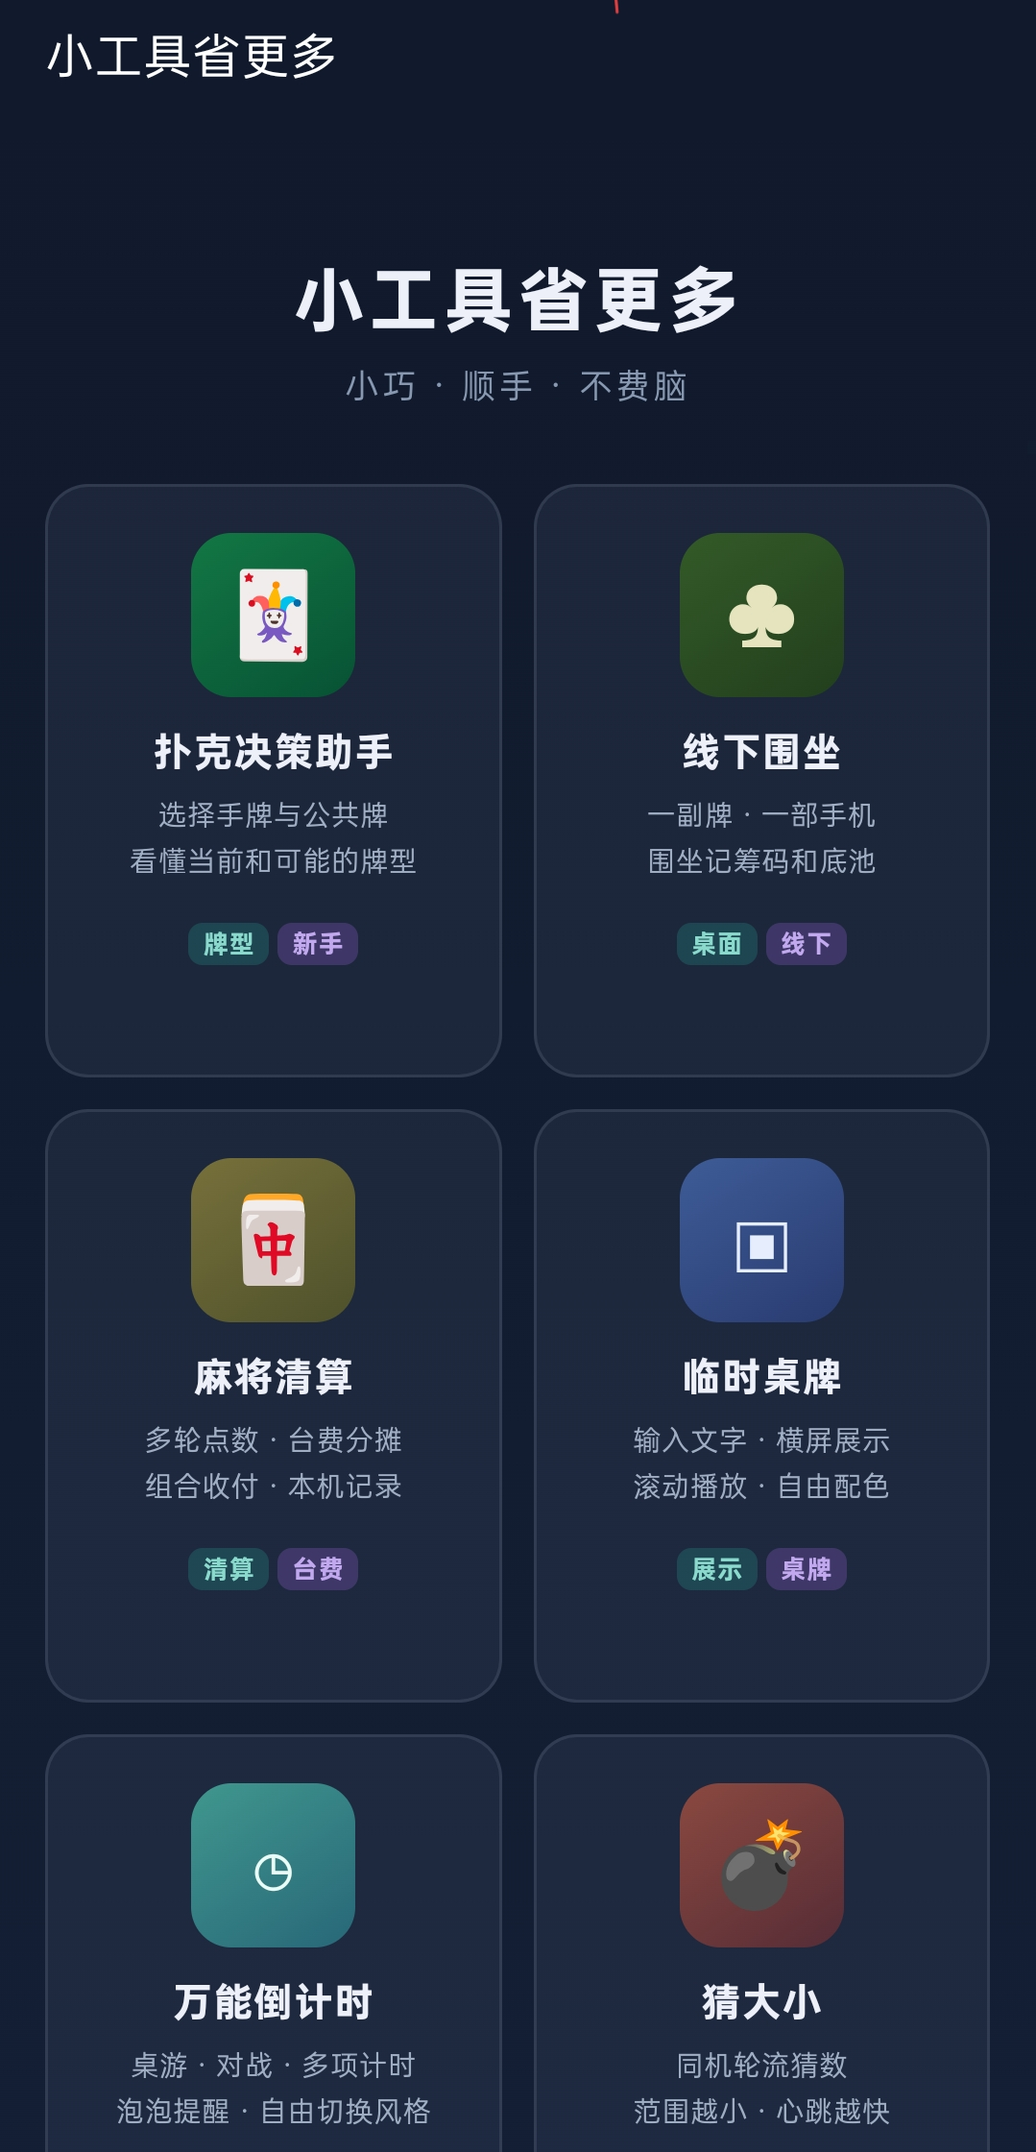
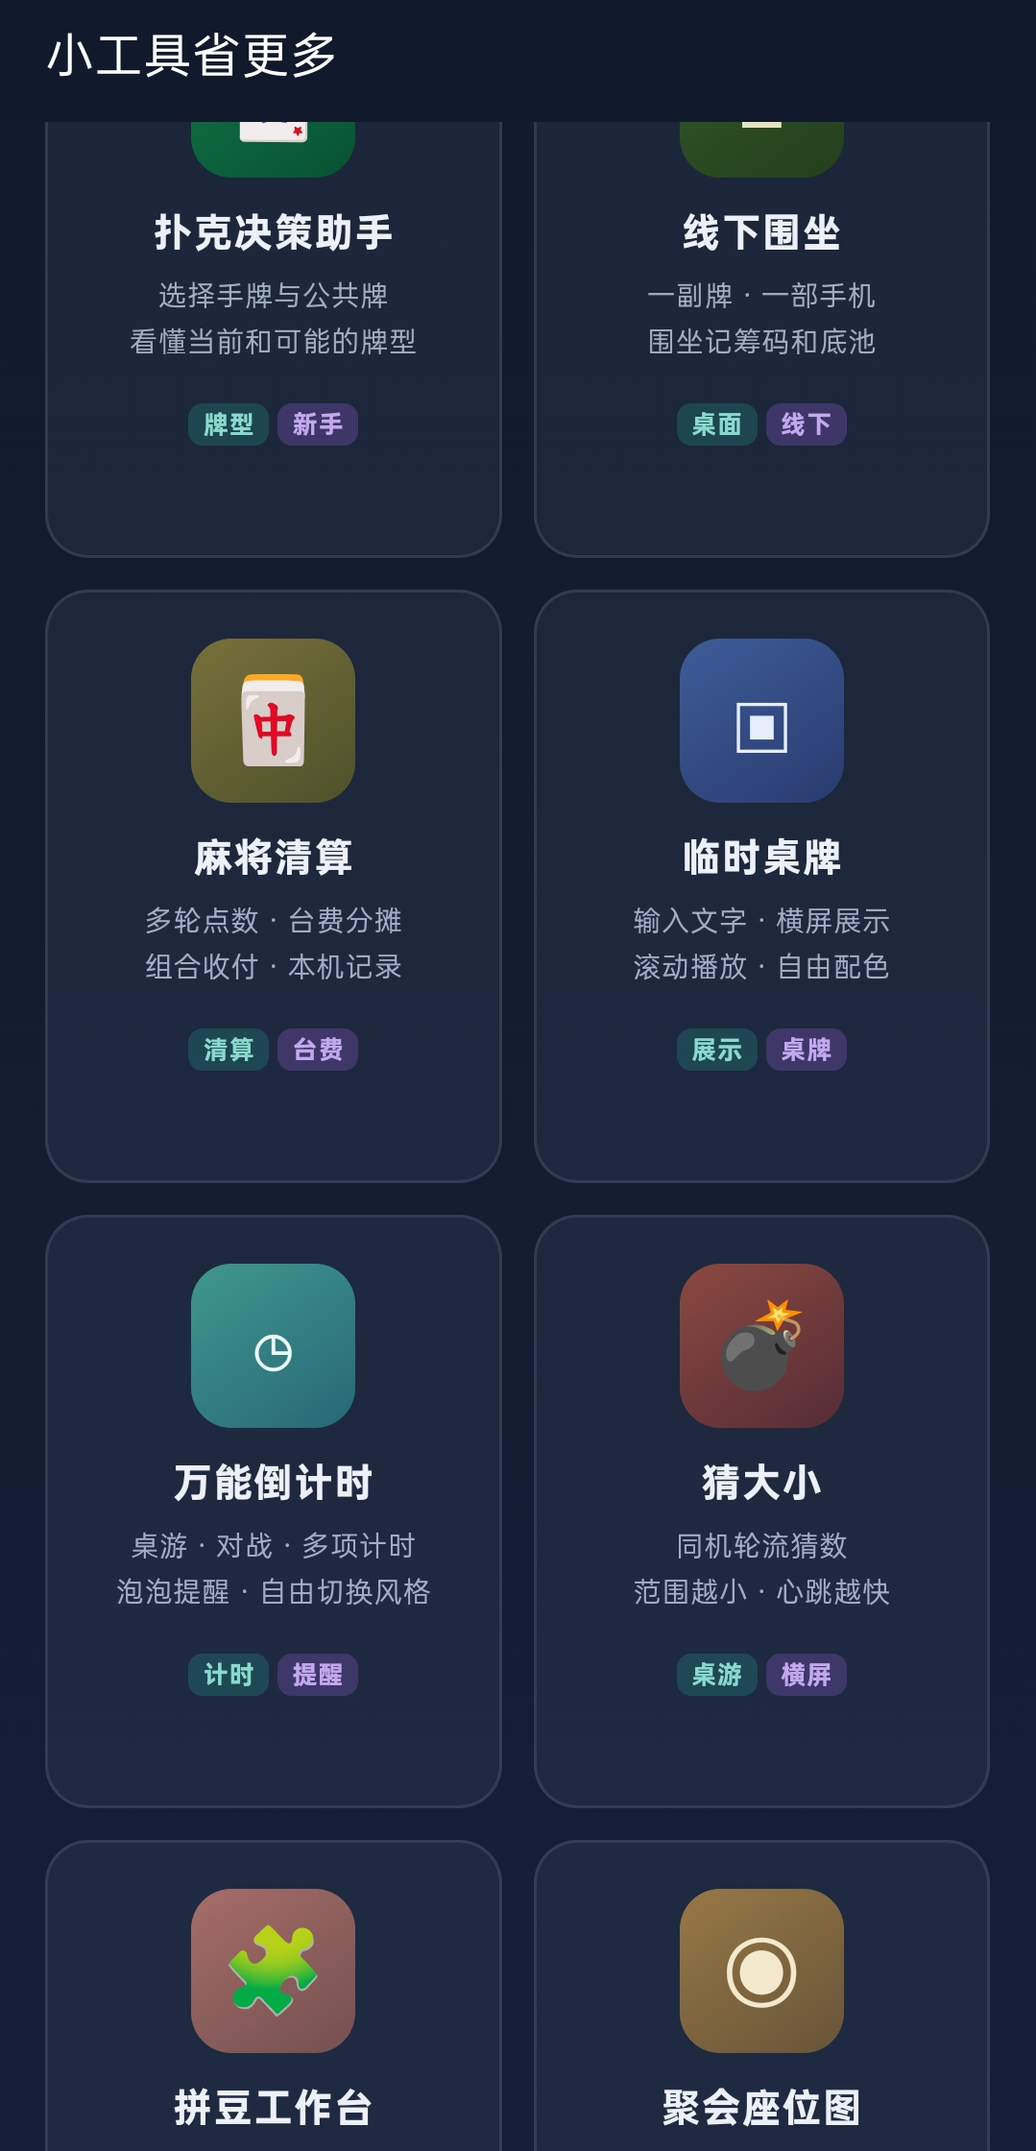
261125_after_readmeUpdate

diff --git a/README.md b/README.md
@@ -28,6 +28,9 @@
 | ⏱ 万能倒计时 | 桌游、对战和多项计时，多项计时以泡泡展示。 |
 | 🎯 猜大小 | 在同一设备上轮流猜数字，逐步缩小范围。 |
 | 🧩 拼豆工作台 | 将图片生成拼豆图纸，编辑色号、对照底板并导出。 |
+| 🪑 聚会座位图 | 自由布置场地、桌椅和人员，生成适合展示或打印的座位图。 |
+
+首页还提供「数据备份与恢复」；「数据看板」「快捷笔记」暂未开放。
 
 ## 界面预览
 
@@ -54,31 +57,17 @@
 
 <p align="center"><strong>猜大小</strong><br /><a href="./docs/screenshots/07-guess-size.jpg"><img src="./docs/screenshots/07-guess-size.jpg" alt="猜大小游戏界面" width="720" /></a></p>
 
+聚会座位图的编辑与导出截图待补充；截图命名和拍摄建议见 [截图清单](./docs/screenshots/README.md)。
+
 > 本工程根据已发布版本的页面截图和使用说明重新搭建，原始工程和原版决策算法无法完整恢复。
 
 ## 功能
 
-### 拼豆工作台
+### 扑克决策助手
 
-- 从相册选择图片后先裁剪，默认居中选取最大正方形，也可自由调整范围；保留原图副本，之后可以重新裁剪。
-- 默认适配 52×52 底板与 MARD 221 色；支持常见图纸规格及多种套装色数，高级选项可调整格数和选择其他色数。具体色号请对照实际套装；特殊效果色在屏幕上的显示仅供参考。
-- 支持主色或平均色采样、相近色合并与单格修改；长方形图纸保持裁剪比例并以所选规格限制最长边。
-- 多份项目及图片副本保存在本机，编辑时自动保存；删除项目会删除项目文件及其本机图片副本，不删除相册原图或已导出的图片。
-- 底板对照模式可双指缩放、滚轮微调柱距，分别锁定比例和位置；可在本设备保存多份命名比例。屏幕物理尺寸需手动校准，不同设备之间不会自动通用。
-- 导出支持格内色号、色号统计、水平镜像、坐标、格线和大图正方形分块；图片保存到相册时需要对应系统授权。
-- 拼豆功能无服务器，图片和图纸在本机处理保存。应用的其他功能（例如局域网联机和 Android 更新）仍会使用网络；清除数据或卸载可能删除本机项目。
-
-### 数据备份与恢复
-
-- 首页底部可选择要备份的工具数据；拼豆项目包含原图，倒计时和局域网测试日志不包含在内。
-- 可选 6～18 位、不能含中文的密码。加密备份使用 scrypt 和 XChaCha20-Poly1305；密码无法找回。不设密码时，持有备份文件的人可以读取其中的数据和图片。
-- 备份先写入应用本机目录，列表中的「导入」可直接读取本软件保存的备份。多端应用优先调用 `wx.miniapp.chooseFile` / `wx.miniapp.shareFile`；微信小程序使用聊天文件选择与分享接口。多端如提供「保存到设备」，调用的是 `wx.miniapp.copyWxFileToNative`，是否返回位置、文件是否可见取决于系统和 SDK，必须自行核实。不能把沙箱中的文件视作卸载后仍存在的备份。
-- 导入会先检查并预览，合并相同身份的数据时让用户选择冲突版本；拼豆校准在其他设备上应重新进行，局域网快照不会自动重新连接。
-- 单个备份的结构化内容与图片合计上限为约 32 MiB；图片编码会增加体积，较大项目请分批选择备份。导入过程中断后下次启动会尝试恢复导入前的数据。
-
-添加新工具时，可在 `utils/backup/registry.js` 声明备份类别、存储键、数据类型和合并策略，并为其业务数据结构、冲突和恢复补充验证；涉及图片等文件时还需实现对应的文件采集与恢复适配。备份格式不兼容时需要调整格式版本并提供迁移。
-
-本功能参考并使用了 [Zippland/perler-beads](https://github.com/Zippland/perler-beads) 的色号映射和图像处理思路，以及 [xiaodengaikeji/pindou](https://github.com/xiaodengaikeji/pindou) 的 MARD 套装色号分组，感谢原作者与贡献者。许可声明分别保留在 `vendor/perler-beads/LICENSE` 和 `vendor/pindou-presets/LICENSE`；其他色号与分组参考 [Mard Beads 色卡](https://mardbeads.com/mard-beads-color-chart)、[168 色参考](https://gogopixelbeads.com/zh/mard-color-chart/)和 [313 色参考](https://www.moneyshake.cn/academy/mard-colors)。
+- 选择两张手牌和 3–5 张公共牌，自动查看当前最佳五张牌及其牌型说明；添加或更换牌时自动更新。
+- 公共牌尚未发完时，展示最多五种可能组成的更大牌型及示例牌面。
+- 可能组合取决于后续发牌；实际胜负还要比较其他玩家的牌。
 
 ### 线下围坐
 
@@ -88,12 +77,6 @@
 - 支持补充筹码、重置牌桌和继续保存在本设备的牌局。自动进入下一局时保留庄家位置。
 - 右上角可查看逐人盈亏及转账建议；尚未分配的底池在预览中暂按各人投入退回，不改变正在进行的牌局。
 - 可在设置页进入局域网围坐。房主建房并设置筹码，其他人搜索、加入并选择座位；每人只操作自己的位置，房主负责设置庄家、补筹和选择赢家。
-
-### 扑克决策助手
-
-- 选择两张手牌和 3–5 张公共牌，自动查看当前最佳五张牌及其牌型说明；添加或更换牌时自动更新。
-- 公共牌尚未发完时，展示最多五种可能组成的更大牌型及示例牌面。
-- 可能组合取决于后续发牌；实际胜负还要比较其他玩家的牌。
 
 ### 麻将清算
 
@@ -121,12 +104,41 @@
 - 可切换十种视觉风格，计时设置与状态保存在本机。暂停的泡泡在底部可左右滑动；运行中的泡泡区域可上下滑动。
 - 计时使用设备时间。离开小程序后不能保证继续响铃或振动，返回后会按实际经过的时间补算，并显示已超时的计时。
 
-首页的「数据看板」「快捷笔记」为待开发入口。
-
-### 猜大小与局域网测试
+### 猜大小
 
 - 猜大小支持同一设备轮流猜数、自定义范围、本机续局、声音和震动；目标数字及范围边界按页面设置生成。
-- 局域网测试用于在同一网络中验证房间搜索、手动加入、消息、延迟、丢包和传输速度。结果与日志保存在本机，可清空或复制；实际兼容性以参与测试的设备为准。
+
+### 拼豆工作台
+
+- 从相册选择图片后先裁剪，默认居中选取最大正方形，也可自由调整范围；保留原图副本，之后可以重新裁剪。
+- 默认适配 52×52 底板与 MARD 221 色；支持常见图纸规格及多种套装色数，高级选项可调整格数和选择其他色数。具体色号请对照实际套装；特殊效果色在屏幕上的显示仅供参考。
+- 支持主色或平均色采样、相近色合并与单格修改；长方形图纸保持裁剪比例并以所选规格限制最长边。
+- 多份项目及图片副本保存在本机，编辑时自动保存；删除项目会删除项目文件及其本机图片副本，不删除相册原图或已导出的图片。
+- 底板对照模式可双指缩放、滚轮微调柱距，分别锁定比例和位置；可在本设备保存多份命名比例。屏幕物理尺寸需手动校准，不同设备之间不会自动通用。
+- 导出支持格内色号、色号统计、水平镜像、坐标、格线和大图正方形分块；图片保存到相册时需要对应系统授权。
+- 拼豆功能无服务器，图片和图纸在本机处理保存。应用的其他功能（例如局域网联机和 Android 更新）仍会使用网络；清除数据或卸载可能删除本机项目。
+
+本功能参考并使用了 [Zippland/perler-beads](https://github.com/Zippland/perler-beads) 的色号映射和图像处理思路，以及 [xiaodengaikeji/pindou](https://github.com/xiaodengaikeji/pindou) 的 MARD 套装色号分组，感谢原作者与贡献者。许可声明分别保留在 `vendor/perler-beads/LICENSE` 和 `vendor/pindou-presets/LICENSE`；其他色号与分组参考 [Mard Beads 色卡](https://mardbeads.com/mard-beads-color-chart)、[168 色参考](https://gogopixelbeads.com/zh/mard-color-chart/)和 [313 色参考](https://www.moneyshake.cn/academy/mard-colors)。
+
+### 聚会座位图
+
+- 从空白画布布置俯视场地，可选输入场地实际长宽，再按相同比例设置桌子尺寸；也可不设置实际尺寸直接拖动布局。
+- 支持圆桌、方桌、椭圆桌、T 形桌和 U 形桌，设置人数和可坐的桌边，自动生成座位；可复制桌子或按行列批量生成，并调整桌边间距。
+- 可添加独立座位、舞台、通道、门、墙壁及文字，也可手绘线条或点选拐角绘制区域；支持撤回、旋转和桌子水平垂直对齐。
+- 支持用逗号、空格或换行批量录入姓名，手动安排座位或自动安排未入座人员；可搜索名单、查看桌子与已入座人员。
+- 导出时可选择画布范围、四种排版风格、背景和 Logo，填写活动名称、日期、时间和地点，调整文字、图片比例及清晰度。
+- 提供 1K、2K、4K、8K 长边档位和打印尺寸、DPI 设置；大图会按设备限制分块保存。图片素材超过原始像素放大时，装饰细节可能变软；打印前建议检查文字大小和清晰度。
+- 座位图及其背景、Logo 保存在本机，也可通过数据备份迁移。该功能仍需在目标设备上验证编辑和导出效果。
+
+### 数据备份与恢复
+
+- 首页底部可选择备份麻将、桌牌、围坐、猜大小、拼豆和座位图数据；拼豆原图及座位图引用的图片也会打包，倒计时状态和局域网测试日志不包含在内。
+- 可选 6～18 位、不能含中文的密码。加密备份使用 scrypt 和 XChaCha20-Poly1305；密码无法找回。不设密码时，持有备份文件的人可以读取其中的数据和图片。
+- 备份先写入应用本机目录，列表中的「导入」可直接读取本软件保存的备份。多端应用优先调用 `wx.miniapp.chooseFile` / `wx.miniapp.shareFile`；微信小程序使用聊天文件选择与分享接口。多端如提供「保存到设备」，调用的是 `wx.miniapp.copyWxFileToNative`，是否返回位置、文件是否可见取决于系统和 SDK，必须自行核实。不能把沙箱中的文件视作卸载后仍存在的备份。
+- 导入会先检查并预览，合并相同身份的数据时让用户选择冲突版本；拼豆校准在其他设备上应重新进行，局域网快照不会自动重新连接。
+- 单个备份的结构化内容与图片合计上限为约 32 MiB；图片编码会增加体积，较大项目请分批选择备份。导入过程中断后下次启动会尝试恢复导入前的数据。
+
+添加新工具时，可在 `utils/backup/registry.js` 声明备份类别、存储键、数据类型和合并策略，并为其业务数据结构、冲突和恢复补充验证；涉及图片等文件时还需实现对应的文件采集与恢复适配。备份格式不兼容时需要调整格式版本并提供迁移。
 
 ## 使用线下围坐
 
@@ -169,19 +181,19 @@
 
 - 项目已升级为微信多端项目。微信小程序配置位于 `project.config.json` 和 `app.json`；多端 App 配置位于 `project.miniapp.json`、`app.miniapp.json` 和 `i18n/`。
 - 开发者工具可分别切换小程序及多端应用模式进行编译、预览和测试。共享源码不代表平台接口完全一致，页面、存储、音频、传感器、横屏和局域网通信均需在相应平台验证。
-- Android 图标位于 `miniapp/android/icons/`，已在多端配置中按屏幕密度引用；临时测试包中已检查图标，实际桌面效果仍需在真机上检查。
+- Android 图标位于 `miniapp/android/icons/`，在多端配置中按屏幕密度引用。
 - Android 测试或正式打包需要按开发者工具提示准备签名证书。正式发布请妥善备份包名、签名密钥和口令；密钥不能提交到仓库，临时调试证书不应用作正式更新签名。
 - 小程序和 Android 应用分别构建、测试和发布；两端各自的本机数据不会自动同步。Android App 冷启动时检查公开 Gitee 发行版，用户可查看当前版本、更新说明及下载进度，再由系统确认安装；推送源码不会自动生成安装包。
-- 局域网测试使用 UDP。Android 多端已开启 Network 扩展 SDK 作对照测试；该开关是否支持 UDP 和本机 IP 接口仍需 Android 真机验证，不能仅凭配置推断能否通信。
-- 本地 Android 测试包放在 `debug/`，该目录不进入 Git 和小程序代码包。测试包保留调试工具和临时证书，只供本机测试。
+- 局域网功能使用 UDP。Android 多端配置开启了 Network 扩展 SDK；搜索、断线恢复及本机 IP 获取表现需在实际设备和网络上验证。
+- 本地 Android 测试包可放在 `debug/`；该目录不进入 Git 和小程序代码包。
 
-本次临时测试构建使用工具默认的 `com.tencent.weauth` 包名、Android target SDK 29 和临时测试证书，仅用于验证构建。安装包还声明了相机、麦克风和位置等权限；声明不代表运行时一定会请求或使用这些权限，但发布前需要检查框架与插件所需权限并按实际用途配置。正式发布前需要配置属于本应用的包名、稳定保管的正式签名，并根据分发渠道要求调整目标 SDK 后重新进行真机测试。
+当前配置中的 Android `targetSdkVersion` 为 34。正式发布前，应检查开发者工具实际使用的包名、签名、目标 SDK 和安装包权限，并在目标设备上测试；权限声明不代表运行时已经获得授权。
 
 ### Android 发行版更新
 
 Android 更新信息和安装包发布在 [Gitee 镜像仓库的发行版](https://gitee.com/bigpoint/Small_utilities_save_much_effort/releases)；[GitHub 原仓库](https://github.com/zhoudeye716-wq/Small_utilities_save_much_effort)用于维护源码。源码镜像和发行版附件是否同步，以 Gitee 上实际显示的发行版为准。
 
-每次构建新版时递增 `project.miniapp.json` 的 `version` 和 `versionCode`，保持应用包名及签名证书不变。在发布仓库创建如 `v0.0.6` 的正式发行版，将更新说明填入描述，并上传一个 APK 附件。App 使用多端 `host.appVersion` 对比版本，检查和下载失败不会影响现有功能；用户需要确认系统安装。更换包名或签名会导致无法覆盖安装，卸载旧版可能丢失本机数据。
+每次发布新版时递增 `project.miniapp.json` 的 `version` 和 `versionCode`，保持应用包名及签名证书不变。在发布仓库创建与应用版本对应的正式发行版，例如应用为 `1.2.6` 时使用 `v1.2.6` 标签，填写更新说明，并上传一个 APK 附件。更新检查只识别三段式版本、非草稿且非预发布的发行版，并要求有且仅有一个符合仓库地址规则的 APK 附件。App 使用多端 `host.appVersion` 对比版本，用户需要确认系统安装。更换包名或签名会导致无法覆盖安装，卸载旧版可能丢失本机数据。
 
 桌牌列表使用 `styles/adaptive.wxss` 中的可复用页面容器和主操作样式：页面可按需引入，并使用 `adaptive-page`、`adaptive-action` 等类。手机和大屏使用不同的间距与字号规则；其他页面需要接入并分别检查实际布局。
 
@@ -198,6 +210,7 @@ Android 更新信息和安装包发布在 [Gitee 镜像仓库的发行版](https
 │   ├── offline-setup/              线下围坐设置
 │   ├── offline-table/              线下围坐牌桌
 │   ├── offline-guide/              线下围坐指南
+│   ├── lan-poker-lobby/            局域网围坐大厅
 │   ├── mahjong-history/            麻将对局记录
 │   ├── mahjong-guide/              麻将新手引导
 │   ├── mahjong-session/            麻将点数、台费与清算
@@ -206,6 +219,12 @@ Android 更新信息和安装包发布在 [Gitee 镜像仓库的发行版](https
 │   ├── signboard/                  横屏桌牌展示与设置
 │   ├── timer/                      万能倒计时
 │   ├── guess-size/                 猜大小
+│   ├── perler-list/                拼豆项目列表
+│   ├── perler-editor/              拼豆编辑与导出
+│   ├── seating-list/               座位图项目列表
+│   ├── seating-editor/             场地、桌椅和人员编辑
+│   ├── seating-export/             座位图预览与导出
+│   ├── data-backup/                数据备份与恢复
 │   └── lan-test/                   局域网联机测试
 ├── utils/
 │   ├── cards.js                    扑克牌数据
@@ -220,6 +239,10 @@ Android 更新信息和安装包发布在 [Gitee 镜像仓库的发行版](https
 │   ├── storage.js                  本地存储
 │   ├── timer-bubbles.js            泡泡绘制与碰撞
 │   ├── guess-size.js               猜大小规则与存档
+│   ├── perler/                     拼豆色板、图纸和导出
+│   ├── seating/                    座位图模型、布局和导出
+│   ├── backup/                     备份格式与恢复适配
+│   ├── lan-poker/                  局域网围坐协议与同步
 │   └── lan-test/                   局域网协议、房间和统计
 ├── components/mahjong-time/        台费日期和时间选择器
 ├── vendor/matter/                  Matter.js 物理引擎及 MIT 许可

diff --git a/docs/screenshots/README.md b/docs/screenshots/README.md
@@ -12,12 +12,16 @@
 | `06-timer-bubbles.jpg` | 万能倒计时：展示多个大小不同的计时泡泡。 |
 | `07-guess-size.jpg` | 猜大小：横屏展示数字范围和输入键盘。 |
 | `08-perler-editor.jpg` | 拼豆工作台：载入图片后展示图纸及编辑工具。 |
+| `09-seating-editor.jpg` | 待补充：聚会座位图编辑页，展示布置好的场地、多个桌椅和人员姓名。 |
+| `10-seating-export.jpg` | 待补充：聚会座位图导出页，展示预览、排版风格和导出设置。 |
 
 可选补充：
 
 | 文件名 | 建议截图内容 |
 | --- | --- |
-| `09-lan-table.png` | 局域网围坐：展示玩家自己的横屏牌桌。 |
-| `10-timer-duel.png` | 万能倒计时的双人对战界面。 |
+| `11-lan-table.png` | 局域网围坐：展示玩家自己的横屏牌桌。 |
+| `12-timer-duel.png` | 万能倒计时的双人对战界面。 |
 
-截图已加入根目录 README 的界面预览。以后替换图片时请使用与实际格式一致的扩展名；如果扩展名改变，也要同步更新 README 中的引用。
+`01`–`08` 已加入根目录 README；`09`、`10` 是尚需提供的新截图，放好后再添加到 README。若首页截图未显示「聚会座位图」，可用新版首页覆盖 `01-home.jpg`。建议裁掉无关通知，避免真实姓名和隐私信息。
+
+请使用与实际图片格式一致的扩展名，不要只修改后缀；如果提供的是 PNG，请使用 `.png` 并同步更新 README 中的引用。
